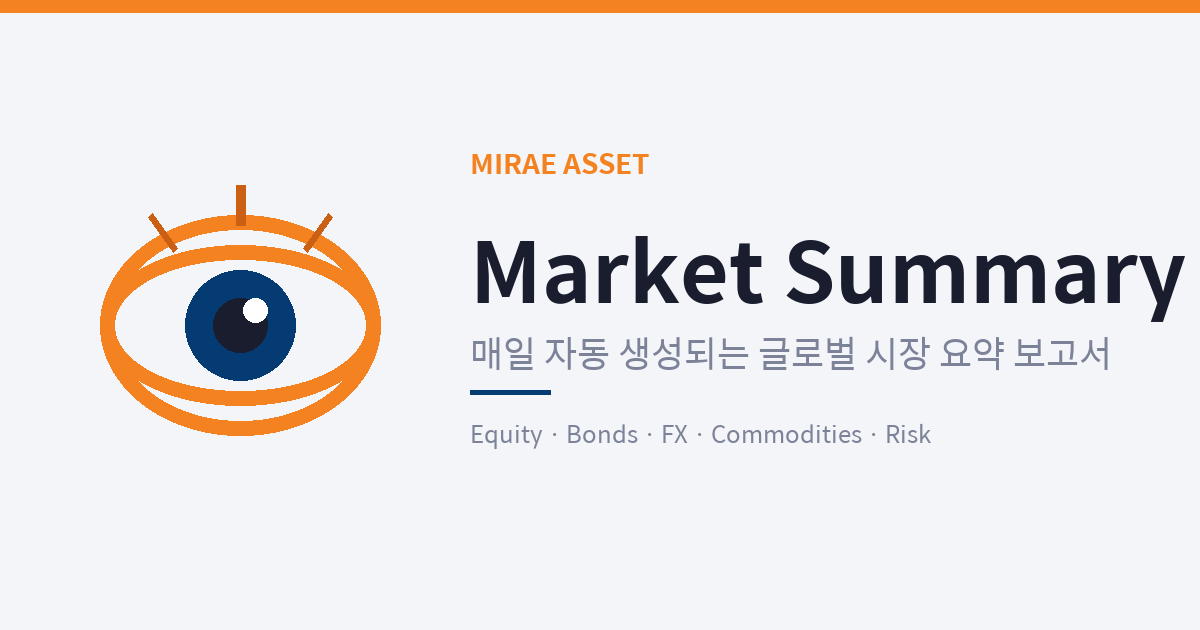
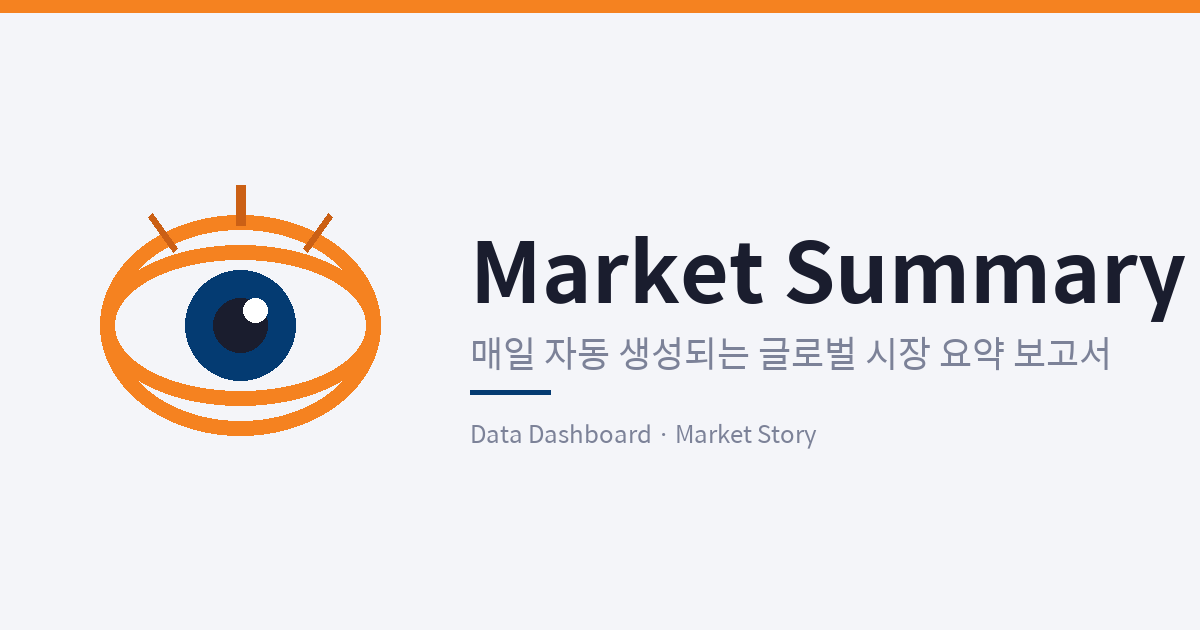
style(og): drop MIRAE ASSET tag, switch caption to Data Dashboard · Market Story
OG image now shows:
- (removed) "MIRAE ASSET" tag line above the title
- Title: "Market Summary"
- Subtitle: "매일 자동 생성되는 글로벌 시장 요약 보고서"
- Caption: "Data Dashboard · Market Story" (was "Equity · Bonds · FX · Commodities · Risk")

Caption now reflects the report's actual two-tab structure rather
than listing asset classes.

Changed region(s): [[0.4008, 0.6635, 0.7092, 0.7238], [0.37, 0.2413, 0.555, 0.3016], [0.74, 0.6635, 0.7708, 0.7238]]

diff --git a/gen_assets.py b/gen_assets.py
@@ -165,10 +165,6 @@ def make_og_image(out_path: str):
 
     font_title = _load_font(84, bold=True)
     font_sub = _load_font(36, bold=False)
-    font_tag = _load_font(28, bold=True)
-
-    # Brand tag line
-    draw.text((title_x, title_y - 64), "MIRAE ASSET", font=font_tag, fill=ORANGE)
 
     # Main title
     draw.text((title_x, title_y), "Market Summary", font=font_title, fill=NEAR_BLACK)
@@ -188,7 +184,7 @@ def make_og_image(out_path: str):
     font_small = _load_font(24, bold=False)
     draw.text(
         (title_x, title_y + 210),
-        "Equity · Bonds · FX · Commodities · Risk",
+        "Data Dashboard · Market Story",
         font=font_small,
         fill=MUTED,
     )
